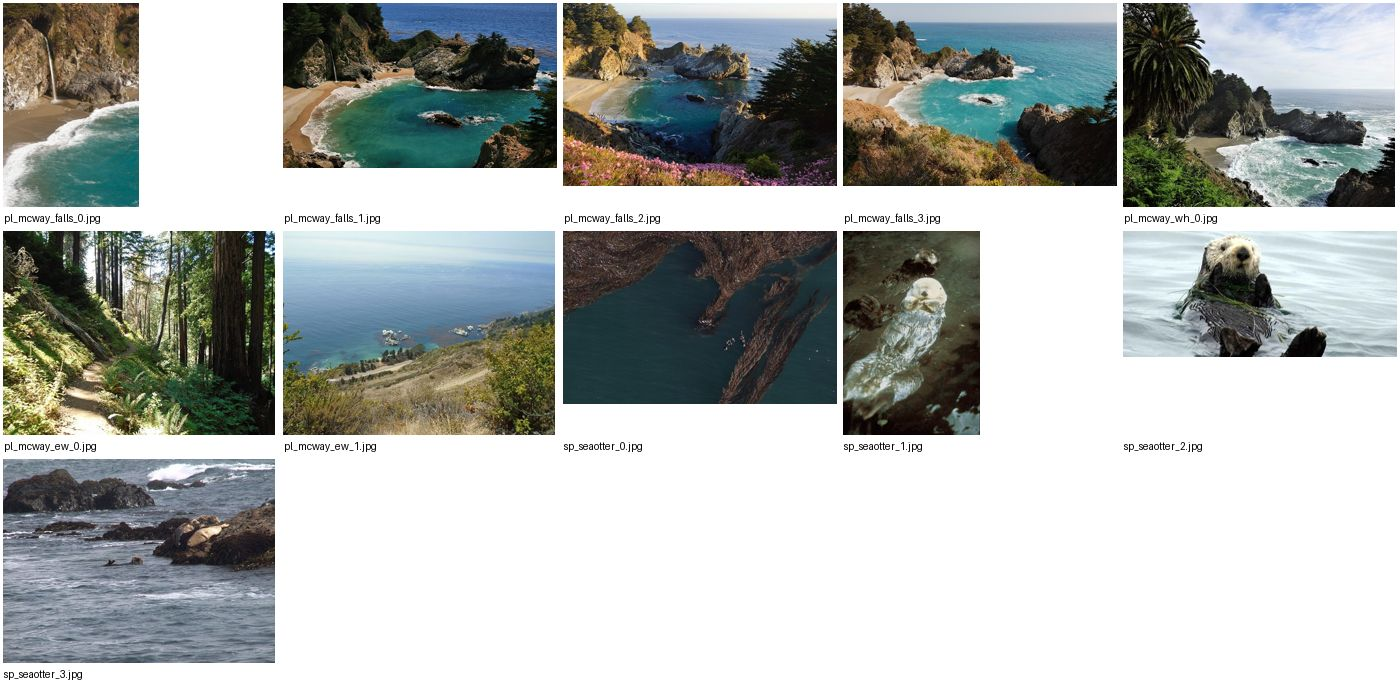
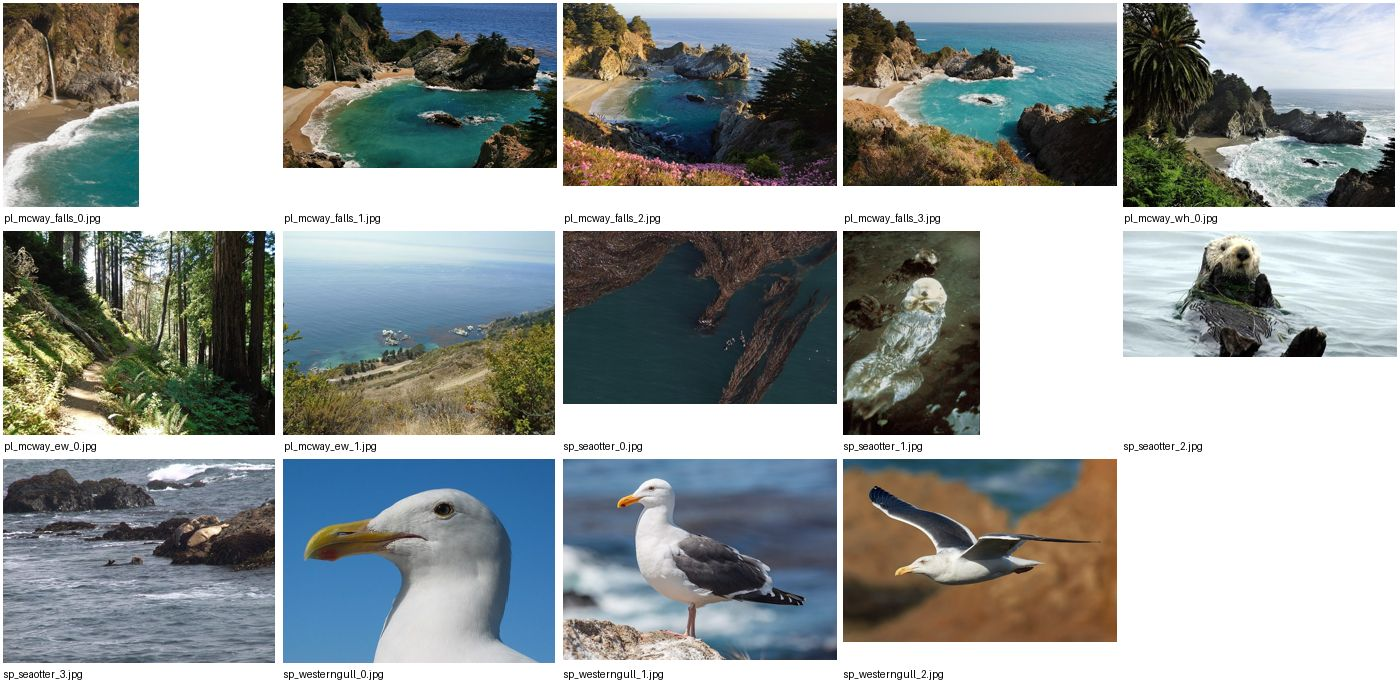
Review build: big-sur-mcway-falls

Changed region(s): [[0.1843, 0.6447, 0.7986, 1.0], [0.6143, 0.9825, 0.6757, 1.0]]

diff --git a/big-sur-mcway-falls/index.html b/big-sur-mcway-falls/index.html
@@ -260,20 +260,24 @@ const FLORA={"A":["fuchsia","douglasiris","monkey"],"B":["douglasiris","monkey",
 const WILD={
  deer:{name:"Black-tailed deer",color:"#B98A5E",sum:"The coastal form of the mule deer. Browses along the Ewoldsen Trail and the canyon edges early and late in the day."},
  squirrel:{name:"California ground squirrel",color:"#9A9A96",sum:"Common around the parking lot, picnic tables and overlook paths. Please don’t feed it."},
+ bobcat:{name:"Bobcat",color:"#C49A6C",sum:"Seen now and then along the Ewoldsen Trail, in the scrub and the edges of the redwood canyon, mostly early and late in the day."},
  turkey:{name:"Wild turkey",color:"#4A3A2E",sum:"Small flocks forage in the oak and grassland openings above McWay Canyon."},
  quail:{name:"California quail",color:"#7D8A9A",sum:"California’s state bird. Coveys run through the coastal scrub along the bluffs."},
- otter:{name:"Southern sea otter",color:"#5A4232",sum:"A threatened species. The park lies in the California Sea Otter State Game Refuge; look for otters floating on their backs in the kelp off McWay and Partington coves."},
- condor:{name:"California condor",color:"#1E1E1E",sum:"Big Sur is where condors were first set free again on the Central Coast. With 9-foot wings and numbered wing tags, they ride the updrafts along the cliffs and ridges."},
- steller:{name:"Steller’s jay",color:"#24406E",sum:"The dark-crested blue jay of the redwoods. Loud and bold around the picnic area and along McWay Creek."},
- vulture:{name:"Turkey vulture",color:"#2A2420",sum:"Teeters on tilted wings low over the bluffs and canyon slopes, often below the overlooks."},
+ otter:{name:"Southern sea otter",color:"#5A4232",sum:"Rare here: a threatened subspecies that lives only on the central California coast, and the park lies inside the California Sea Otter State Game Refuge. Look for otters floating on their backs in the kelp off McWay and Partington coves."},
+ condor:{name:"California condor",color:"#1E1E1E",sum:"Rare here: one of the rarest birds in North America, listed as endangered for the park; Big Sur condors are released and tracked by the Ventana Wildlife Society, a park partner. With 9-foot wings and numbered tags, they ride the updrafts along the cliffs and ridges."},
+ eagle:{name:"Bald eagle",color:"#3B2A1E",sum:"Listed among the park’s birds; watch for the white head and tail over the coast and ridges, especially in winter."},
  peregrine:{name:"Peregrine falcon",color:"#55606A",sum:"Nests on the sea cliffs of the park. Watch for a fast, sharp-winged falcon diving at seabirds along the coast."},
+ hawk:{name:"Red-tailed hawk",color:"#A8572F",sum:"The common big hawk of the Big Sur coast, circling over the bluffs and chaparral on rising air."},
+ vulture:{name:"Turkey vulture",color:"#2A2420",sum:"Teeters on tilted wings low over the bluffs and canyon slopes, often below the overlooks."},
+ steller:{name:"Steller’s jay",color:"#24406E",sum:"The dark-crested blue jay of the redwoods. Loud and bold around the picnic area and along McWay Creek."},
+ gull:{name:"Western gull",color:"#B9C2CB",sum:"The big, dark-backed gull of the Pacific coast; nests and rests on the rocks around McWay and Partington coves."},
  whale:{name:"Gray whale",color:"#5A646C",sum:"Gray whales pass close to this coast on their migration between Alaska and Baja, mostly winter and spring, sometimes near the mouth of McWay Cove. Look for the spout from the overlook."},
  sealion:{name:"California sea lion",color:"#7A5B43",sum:"California sea lions rest on the offshore rocks and swim past the coves, barking."},
  seal:{name:"Harbor seal",color:"#8A8378",sum:"Harbor seals haul out on rocks along this shore and bob up just beyond the surf."},
  pelican:{name:"Brown pelican",color:"#8C7E6E",sum:"Brown pelicans glide in lines just above the waves and dive headfirst for fish."}
 };
 
-const PHOTOS={"stop":{},"animal":{"deer":[{"f":"../photos/sp_deer_2.jpg","by":"LassenNPS","lic":"BY 2.0","src":"https://www.flickr.com/photos/61860846@N05/9401081133","t":"Pair of Mule Deer: Odocoileus hemionus californicus"}],"squirrel":[{"f":"../photos/sp_squirrel_1.jpg","by":"sonstroem","lic":"BY 2.0","src":"https://www.flickr.com/photos/96964826@N05/19792172568","t":"Western Gray Squirrel"}],"quail":[{"f":"../photos/sp_quail_2.jpg","by":"SidPix","lic":"BY 2.0","src":"https://www.flickr.com/photos/22357152@N02/6401999787","t":"California Quail"}]},"flower":{"fuchsia":[{"f":"../photos/sp_fuchsia_0.jpg","by":"John Rusk","lic":"BY 2.0","src":"https://www.flickr.com/photos/12303842@N00/36762222981","t":"J20170824-0061—Epilobium canum—RPBG—DxO"}],"monkey":[{"f":"../photos/sp_monkey_2.jpg","by":"Björn S...","lic":"BY-SA 2.0","src":"https://www.flickr.com/photos/40948266@N04/42902155992","t":"Sticky Monkey-Flower - Diplacus aurantiacus"}],"yucca":[{"f":"../photos/sp_yucca_0.jpg","by":"Jim Morefield","lic":"BY-SA 2.0","src":"https://www.flickr.com/photos/127605180@N04/16524048182","t":"chaparral yucca, Hesperoyucca whipplei"}]}};
+const PHOTOS={"stop":{"A3":[{"f":"../photos/pl_mcway_falls_0.jpg","by":"King of Hearts","lic":"CC BY-SA 3.0","src":"https://commons.wikimedia.org/wiki/File:McWay_Falls_Big_Sur_May_2011_001.jpg","t":"McWay Falls Big Sur May 2011 001"},{"f":"../photos/pl_mcway_falls_1.jpg","by":"Brocken Inaglory","lic":"CC BY-SA 3.0","src":"https://commons.wikimedia.org/wiki/File:McWay_cove_1.jpg","t":"McWay cove 1"},{"f":"../photos/pl_mcway_falls_2.jpg","by":"King of Hearts","lic":"CC BY-SA 4.0","src":"https://commons.wikimedia.org/wiki/File:McWay_Falls_Big_Sur_September_2012_001.jpg","t":"McWay Falls Big Sur September 2012 001"},{"f":"../photos/pl_mcway_falls_3.jpg","by":"King of Hearts","lic":"CC BY-SA 3.0","src":"https://commons.wikimedia.org/wiki/File:McWay_Falls_Big_Sur_May_2011_005.jpg","t":"McWay Falls Big Sur May 2011 005"}],"A4":[{"f":"../photos/pl_mcway_wh_0.jpg","by":"SharonWestvale","lic":"CC BY-SA 4.0","src":"https://commons.wikimedia.org/wiki/File:Julia_Pfeiffer_Burns_California_State_Park.jpg","t":"Julia Pfeiffer Burns California State Park"}],"C1":[{"f":"../photos/pl_mcway_ew_0.jpg","by":"Martin Stiburek","lic":"CC BY-SA 4.0","src":"https://commons.wikimedia.org/wiki/File:Forest_Ewoldsen_Trail,_Julia_Pfeiffer_Burns_State_Park.jpg","t":"Forest Ewoldsen Trail, Julia Pfeiffer Burns State Park"}],"C4":[{"f":"../photos/pl_mcway_ew_1.jpg","by":"Pimlico27","lic":"CC BY-SA 4.0","src":"https://commons.wikimedia.org/wiki/File:California_State_Route_1_from_Ewoldsen_Trail.jpg","t":"California State Route 1 from Ewoldsen Trail"}]},"animal":{"deer":[{"f":"../photos/sp_dp_btdeer_0.jpg","by":"Charles J. Sharp","lic":"CC BY-SA 4.0","src":"https://commons.wikimedia.org/wiki/File:Columbian_black-tailed_deer_(Odocoileus_hemionus_columbianus)_male_Mt_Rainier.jpg","t":"Columbian black-tailed deer (Odocoileus hemionus columbianus) male Mt Rainier"},{"f":"../photos/sp_dp_btdeer_2.jpg","by":"Frank Schulenburg","lic":"CC BY-SA 3.0","src":"https://commons.wikimedia.org/wiki/File:Odocoileus_hemionus_columbianus_(male_and_female),_Point_Reyes_National_Seashore.jpg","t":"Odocoileus hemionus columbianus (male and female), Point Reyes National Seashore"},{"f":"../photos/sp_dp_btdeer_3.jpg","by":"Charles J. Sharp","lic":"CC BY-SA 4.0","src":"https://commons.wikimedia.org/wiki/File:Columbian_black-tailed_deer_(Odocoileus_hemionus_columbianus)_male_Olympic.jpg","t":"Columbian black-tailed deer (Odocoileus hemionus columbianus) male Olympic"}],"bobcat":[{"f":"../photos/sp_bobcat_0.jpg","by":"Joshua Tree National Park","lic":"PDM 1.0","src":"https://www.flickr.com/photos/115357548@N08/14252467743","t":"Bobcat (Lynx rufus)"}],"squirrel":[{"f":"../photos/sp_calgsquirrel_3.jpg","by":"Joshua Tree National Park","lic":"PDM 1.0","src":"https://www.flickr.com/photos/115357548@N08/49902265071","t":"California ground squirrel (Otospermophilus beecheyi parvulus) near Split Rock Trail"},{"f":"../photos/sp_calgsquirrel_1.jpg","by":"Wade Tregaskis","lic":"BY-NC 2.0","src":"https://www.flickr.com/photos/7725552@N06/50214779367","t":"Juvenile California Ground Squirrel (Otospermophilus beecheyi)"}],"quail":[{"f":"../photos/sp_quail_2.jpg","by":"SidPix","lic":"BY 2.0","src":"https://www.flickr.com/photos/22357152@N02/6401999787","t":"California Quail"}],"hawk":[{"f":"../photos/sp_hawk_2.jpg","by":"mark6mauno","lic":"BY-SA 2.0","src":"https://www.flickr.com/photos/98147195@N00/6604970029","t":"Buteo jamaicensis (Red-tailed Hawk)"}],"otter":[{"f":"../photos/sp_seaotter_1.jpg","by":"Tuttle Stephen, U.S. Fish and Wildlife Service","lic":"Public domain","src":"https://commons.wikimedia.org/wiki/File:Southern_sea_otter_enhydra_lutris_nereis.jpg","t":"Southern sea otter enhydra lutris nereis"},{"f":"../photos/sp_seaotter_2.jpg","by":"U.S. Fish and Wildlife Service","lic":"Public domain","src":"https://commons.wikimedia.org/wiki/File:Southern_sea_otter_animal_enhydra_lutris_or_enhydra_lutris_nereis.jpg","t":"Southern sea otter animal enhydra lutris or enhydra lutris nereis"}],"turkey":[{"f":"../photos/sp_wg_turkey_0.jpg","by":"Judy Gallagher","lic":"BY 2.0","src":"https://www.flickr.com/photos/52450054@N04/24350524238","t":"Wild Turkey - Meleagris gallopavo, Occoquan Bay National Wildlife Refuge, Woodbridge, Virginia"},{"f":"../photos/sp_wg_turkey_2.jpg","by":"Mary Keim","lic":"BY-NC-SA 2.0","src":"https://www.flickr.com/photos/38514062@N03/23837720052","t":"Wild Turkey (Meleagris gallopavo)"}],"condor":[{"f":"../photos/sp_nar_condor_0.jpg","by":"thaths","lic":"BY-NC 2.0","src":"https://www.flickr.com/photos/34816987@N00/7181875384","t":"A tagged California Condor flying over the Pacific Ocean"},{"f":"../photos/sp_gccondor_1.jpg","by":"Grand Canyon NPS","lic":"BY 2.0","src":"https://www.flickr.com/photos/50693818@N08/5735690880","t":"Grand Canyon National Park: California Condor 87_3483"},{"f":"../photos/sp_gccondor_2.jpg","by":"Grand Canyon NPS","lic":"BY 2.0","src":"https://www.flickr.com/photos/50693818@N08/5735075527","t":"Grand Canyon National Park: California Condor D_0511"}],"steller":[{"f":"../photos/sp_stellersjay_0.jpg","by":"Aly3naa","lic":"BY 2.0","src":"https://www.flickr.com/photos/193745899@N04/52385817421","t":"A Stellers Jay giving me a look 😳"},{"f":"../photos/sp_stellersjay_1.jpg","by":"Carandoom","lic":"BY-ND 2.0","src":"https://www.flickr.com/photos/153004825@N03/42220477825","t":"Steller's jay (Cyanocitta stelleri)"},{"f":"../photos/sp_stellersjay_2.jpg","by":"Andrej Chudy","lic":"BY-NC-SA 2.0","src":"https://www.flickr.com/photos/76362620@N00/32603012346","t":"Steller's Jay"}],"vulture":[{"f":"../photos/sp_tvulture_0.jpg","by":"Charles J. Sharp","lic":"CC BY-SA 4.0","src":"https://commons.wikimedia.org/wiki/File:Turkey_vulture_(Cathartes_aura)_in_flight.JPG","t":"Turkey vulture (Cathartes aura) in flight"},{"f":"../photos/sp_tvulture_1.jpg","by":"Frank Schulenburg","lic":"CC BY-SA 4.0","src":"https://commons.wikimedia.org/wiki/File:Cathartes_aura_at_Tomales_Bay.jpg","t":"Cathartes aura at Tomales Bay"}],"peregrine":[{"f":"../photos/sp_peregrine_0.jpg","by":"Jon David Nelson","lic":"BY-NC-SA 2.0","src":"https://www.flickr.com/photos/65771669@N07/30098270026","t":"Peregrine Falcon"},{"f":"../photos/sp_peregrine_2.jpg","by":"FurLined","lic":"BY-SA 2.0","src":"https://www.flickr.com/photos/8752533@N04/3875330734","t":"Peregrine Falcon"}],"eagle":[{"f":"../photos/sp_baldeagle_0.jpg","by":"Martin Falbisoner","lic":"CC BY-SA 3.0","src":"https://commons.wikimedia.org/wiki/File:Bald_Eagle_Head_sq.jpg","t":"Bald Eagle Head sq"},{"f":"../photos/sp_baldeagle_3.jpg","by":"Lewis Hulbert","lic":"CC BY-SA 4.0","src":"https://commons.wikimedia.org/wiki/File:Bald_eagle_at_the_Hawk_Conservancy_Trust_2-2.jpg","t":"Bald eagle at the Hawk Conservancy Trust 2-2"}],"gull":[{"f":"../photos/sp_westerngull_1.jpg","by":"Diliff","lic":"CC BY-SA 3.0","src":"https://commons.wikimedia.org/wiki/File:Larus_occidentalis_(Western_Gull),_Point_Lobos,_CA,_US_-_May_2013.jpg","t":"Larus occidentalis (Western Gull), Point Lobos, CA, US - May 2013"},{"f":"../photos/sp_westerngull_2.jpg","by":"Frank Schulenburg","lic":"CC BY-SA 4.0","src":"https://commons.wikimedia.org/wiki/File:Larus_occidentalis_in_flight_(Bodega_Head).jpg","t":"Larus occidentalis in flight (Bodega Head)"}]},"flower":{"fuchsia":[{"f":"../photos/sp_fuchsia_0.jpg","by":"John Rusk","lic":"BY 2.0","src":"https://www.flickr.com/photos/12303842@N00/36762222981","t":"J20170824-0061—Epilobium canum—RPBG—DxO"}],"monkey":[{"f":"../photos/sp_monkey_2.jpg","by":"Björn S...","lic":"BY-SA 2.0","src":"https://www.flickr.com/photos/40948266@N04/42902155992","t":"Sticky Monkey-Flower - Diplacus aurantiacus"}],"yucca":[{"f":"../photos/sp_yucca_0.jpg","by":"Jim Morefield","lic":"BY-SA 2.0","src":"https://www.flickr.com/photos/127605180@N04/16524048182","t":"chaparral yucca, Hesperoyucca whipplei"}],"sorrel":[{"f":"../photos/sp_sorrel_0.jpg","by":"-Dagmar-","lic":"BY-NC-ND 2.0","src":"https://www.flickr.com/photos/53383848@N07/19102507490","t":"Oxalis oregana (Redwood Sorrel)"},{"f":"../photos/sp_sorrel_1.jpg","by":"brewbooks","lic":"BY-SA 2.0","src":"https://www.flickr.com/photos/93452909@N00/17347814181","t":"Oxalis oregana (redwood sorrel)"},{"f":"../photos/sp_sorrel_2.jpg","by":"sarahstierch","lic":"BY 2.0","src":"https://www.flickr.com/photos/7633518@N08/52620303366","t":"Oxalis oregana (Redwood Sorrel)"}],"wcolumbine":[{"f":"../photos/sp_wcolumbine_ak_0.jpg","by":"Jim Morefield","lic":"BY-SA 2.0","src":"https://www.flickr.com/photos/127605180@N04/15869788083","t":"western columbine, Aquilegia formosa var. formosa"},{"f":"../photos/sp_wcolumbine_ak_2.jpg","by":"MIKOFOX ⌘ Reject Fear, Go Outdoors, Live Healthy","lic":"BY-NC-SA 2.0","src":"https://www.flickr.com/photos/28648755@N07/37377267236","t":"Western Columbine [Aquilegia formosa]"},{"f":"../photos/sp_wcolumbine_ak_3.jpg","by":"MIKOFOX ⌘ Reject Fear, Go Outdoors, Live Healthy","lic":"BY-NC-SA 2.0","src":"https://www.flickr.com/photos/28648755@N07/37424274591","t":"Western Columbine [Aquilegia formosa]"}],"douglasiris":[{"f":"../photos/sp_douglasiris_0.jpg","by":"No machine-readable author provided. Curtis Clark assumed (based on copyright cl","lic":"CC BY-SA 2.5","src":"https://commons.wikimedia.org/wiki/File:Iris_douglasiana_flower_2003-03-17.jpg","t":"Iris douglasiana flower 2003-03-17"},{"f":"../photos/sp_douglasiris_2.jpg","by":"John Rusk from Berkeley, CA, United States of America","lic":"CC BY 2.0","src":"https://commons.wikimedia.org/wiki/File:G20080424-0471--Iris_douglasiana--RPBG-1_(8648684554).jpg","t":"G20080424-0471--Iris douglasiana--RPBG-1 (8648684554)"},{"f":"../photos/sp_douglasiris_3.jpg","by":"John Rusk from Berkeley, CA, United States of America","lic":"CC BY 2.0","src":"https://commons.wikimedia.org/wiki/File:J20170420-0159%E2%80%94Iris_douglasiana%E2%80%94RPBG_(34152417132).jpg","t":"J20170420-0159—Iris douglasiana—RPBG (34152417132)"}],"ceanothus":[{"f":"../photos/sp_ceanothus_0.jpg","by":"ww_whist","lic":"BY-NC-SA 2.0","src":"https://www.flickr.com/photos/29245046@N03/16961133405","t":"Wild Lilac (ceanothus)"},{"f":"../photos/sp_ceanothus_1.jpg","by":"selkovjr","lic":"BY 2.0","src":"https://www.flickr.com/photos/14192663@N07/4869288563","t":"A blue-flowered shrub in Ayr"}]}};
 /* ================= terrain ================= */
 const X0=-10800,X1=5100,N0=-3600,N1=10000,STEP=80;
 const NX=Math.round((X1-X0)/STEP)+1,NN=Math.round((N1-N0)/STEP)+1;
@@ -906,7 +910,7 @@ const B={
 };
 return B;})();
 Object.assign(BUILD,GENTLE);
-const BIRDC={pelican:["#8C7E6E","#EDE6DA","#E8C66A"],condor:["#1E1E1E", null, "#E89A7A"],steller:["#24406E", null, "#1A1A1A"],vulture:["#2A2420", null, "#C8322C"],peregrine:["#55606A", "#ECE8E0", "#2A2A2A"],hawk:["#A8572F","#F1E2CC",null],jay:["#3D78C4","#D9DEE3",null],raven:["#262626",null,null],woodpecker:["#1F1F1F","#F2F2EE","#C8322C"]};
+const BIRDC={pelican:["#8C7E6E","#EDE6DA","#E8C66A"],condor:["#1E1E1E", null, "#E89A7A"],eagle:["#3B2A1E", null, "#FFFFFF"],peregrine:["#55606A", "#ECE8E0", "#2A2A2A"],vulture:["#2A2420", null, "#C8322C"],steller:["#24406E", null, "#1A1A1A"],gull:["#B9C2CB", "#FFFFFF", "#FFFFFF"],hawk:["#A8572F","#F1E2CC",null],jay:["#3D78C4","#D9DEE3",null],raven:["#262626",null,null],woodpecker:["#1F1F1F","#F2F2EE","#C8322C"]};
 const MSCALE={dolphin:2.1,whale:2.2,shark:1.6,sealion:1.6,seal:1.5,pelican:2.4};
 const SCALE={turkey:1.7,otter:1.7,bear:1.7,deer:1.4,bobcat:1.45,coyote:1.35,lion:1.4,raccoon:1.3,squirrel:1.8,quail:1.8,snake:2.0};
 const animalGroup=new THREE.Group();world.add(animalGroup);
@@ -917,6 +921,7 @@ const ANIMALS=[
  {k:"squirrel",at:[-280,-3],hop:true},
  {k:"squirrel",at:[-7436,6318],hop:true},
  {k:"squirrel",at:[800,4060],hop:true},
+ {k:"bobcat",path:[1307,1967,1897,1314],per:32,ph:0.2},
  {k:"turkey",at:[-773,4416],flock:3},
  {k:"quail",at:[-7364,5846],flock:3},
  {k:"otter",at:[-745,-145]},
@@ -975,7 +980,7 @@ function marineTick(tt){marine.forEach(a=>{const y0=G(a.x,a.n).y;
 
 // birds
 const birds=[];
-[["condor",-44,32,-30,8],["steller",44,26,26,7],["vulture",-36,35,40,7],["peregrine",34,30,-44,6],["condor",0,38,-50,10],["steller",-10,28,50,6],["vulture",50,34,-10,9]].forEach((b,i)=>{
+[["condor",-44,32,-30,8],["eagle",44,26,26,7],["peregrine",-36,35,40,7],["hawk",34,30,-44,6],["vulture",0,38,-50,10],["steller",-10,28,50,6],["gull",50,34,-10,9]].forEach((b,i)=>{
   const [c,belly,cap]=BIRDC[b[0]];const o=BUILD.bird(c,belly,cap);o.scale.setScalar(2.4);scene.add(o);birds.push({k:b[0],obj:o,cx:b[1],cy:b[2],cz:b[3],r:b[4],sp:(0.22+i*0.035)*(i%2?1:-1),ph:i*1.3,fl:i*0.7});});
 // clouds with varied shapes
 const clouds=[];(function(){const cg=new THREE.IcosahedronGeometry(1,2),hm=new THREE.MeshBasicMaterial({color:PAL.slabLine,side:THREE.BackSide});
@@ -1005,7 +1010,7 @@ function fitFor(v,az,el){
   const fwd=dirOf(az,el).negate(),right=new THREE.Vector3().crossVectors(fwd,new THREE.Vector3(0,1,0)).normalize(),up=new THREE.Vector3().crossVectors(right,fwd).normalize();
   const pts=viewPoints(v);let mu=1e9,Mu=-1e9,mv=1e9,Mv=-1e9;pts.forEach(p=>{const u=p.dot(right),vv=p.dot(up);mu=Math.min(mu,u);Mu=Math.max(Mu,u);mv=Math.min(mv,vv);Mv=Math.max(Mv,vv);});
   const pad=v==="all"?1:1.25,du=(Mu-mu)*pad,dv=(Mv-mv)*pad,aw=Math.max(80,W-m.l-m.r),ah=Math.max(80,Hh-m.t-m.b);
-  let zoom=Math.min(aw*VIEW/(du*Hh),ah*VIEW/(dv*Hh));if(v!=="all")zoom=Math.min(zoom,fitFor("all",VIEWAZ.all,0.58).zoom*({"A": 9.0, "B": 7.0, "C": 3.0}[v]||2.4));
+  let zoom=Math.min(aw*VIEW/(du*Hh),ah*VIEW/(dv*Hh));if(v!=="all")zoom=Math.min(zoom,fitFor("all",VIEWAZ.all,0.58).zoom*({"A": 5.0, "B": 4.5, "C": 3.0}[v]||2.4));
   const wpp=VIEW/(Hh*zoom),target=new THREE.Vector3().copy(right).multiplyScalar((mu+Mu)/2).addScaledVector(up,(mv+Mv)/2).addScaledVector(right,-(m.l-m.r)/2*wpp).addScaledVector(up,(m.t-m.b)/2*wpp);
   return {zoom,target};}
 function fitGoal(){if(!stage.clientWidth||!stage.clientHeight)return;const f=fitFor(view,goal.az,goal.el);goal.zoom=f.zoom;goal.target.copy(f.target);}

diff --git a/_review/mcway/mcway_sheet.py b/_review/mcway/mcway_sheet.py
@@ -1,0 +1,261 @@
+from lib import *
+from mk_sheet import build
+import sys, json, math, os
+import numpy as np
+from matplotlib.path import Path as MPath
+
+os.chdir('/home/claude/parks')
+# origin: McWay Falls / Waterfall Overlook trailhead (Hikespeak 36.1587, -121.67054)
+p = Park('mcway', 36.1587, -121.67054)
+
+
+def fix_sea(p):
+    # Ocean cells in the terrain tiles sit at about +1.2 m, so the engine would draw them as land. Rebuild the sea
+    # from the OSM coastline (land on the left of the way): sea -1 m, land at least 1.5 m. Closed rings stay land.
+    W = [w for w in p.W if w['k'] == 'coastline']
+    open_ = [[p.xy(c) for c in w['p']] for w in W if w['p'][0] != w['p'][-1]]
+    rings = [[p.xy(c) for c in w['p']] for w in W if w['p'][0] == w['p'][-1]]
+    first = [c for c in open_ if not any(math.dist(c[0], d[-1]) < 1 for d in open_)][0]
+    chain = list(first); used = [first]
+    while True:
+        nxt = [c for c in open_ if c not in used and math.dist(c[0], chain[-1]) < 1]
+        if not nxt: break
+        chain += nxt[0][1:]; used.append(nxt[0])
+    print('coast chain', len(used), 'of', len(open_), [round(v) for v in chain[0]], [round(v) for v in chain[-1]])
+    a, b = chain[0], chain[-1]
+    sea = MPath(chain + [(b[0], -60000), (-60000, -60000), (-60000, 60000), (a[0], 60000)])
+    z = p.meta['z']; nn = 2 ** z; H, Wd = p.M.shape
+    jj, ii = np.mgrid[0:H, 0:Wd]
+    lon = (p.meta['tx0'] + (ii + 0.5) / 256) / nn * 360 - 180
+    lat = np.degrees(np.arctan(np.sinh(np.pi * (1 - 2 * (p.meta['ty0'] + (jj + 0.5) / 256) / nn))))
+    X = (lon - p.lon0) * p.K; N = (lat - p.lat0) * 364000
+    XY = np.column_stack([X.ravel(), N.ravel()])
+    s = sea.contains_points(XY).reshape(H, Wd)
+    for r in rings:
+        s &= ~MPath(r).contains_points(XY).reshape(H, Wd)
+    M = p.M.copy(); M[s] = -1.0; M[~s] = np.maximum(M[~s], 1.5)
+    p.M = M
+
+
+fix_sea(p)
+
+LOT = (443, 319)        # day-use parking at McWay Canyon (OSM path/steps end by the lot)
+PELTON = (335, 212)     # Pelton Wheel (OSM historic node)
+TUN = (-18, 19)         # pedestrian tunnel under Highway 1 (OSM path segment under the road)
+FALLS = (-567, -314)    # McWay Falls lip: OSM McWay Creek ends here (Wikipedia 36.15781,-121.67214 = -470,-325)
+FV = (-388, 233)        # cliff-edge path facing the falls
+WH = (-738, 426)        # end of the Overlook Trail: Waterfall House site (OSM viewpoint -813,444)
+SADDLE = (-806, -349)   # Saddle Rock (OSM peak, 15 m)
+TH_B = (-6823, 6695)    # Partington Cove gate at the Highway 1 bend (OSM track start; Hikespeak 36.1770,-121.6937)
+KIOSK = (-7472, 6327)   # bottom of the fire road: kiosk and junctions (OSM)
+PTUN = (-7548, 6165)    # Partington tunnel (OSM path between bridge and cove)
+PCOVE = (-7575, 5784)   # Partington Cove landing / point (OSM path end)
+PBEACH = (-7813, 6135)  # boulder beach at the mouth of Partington Creek (OSM path end)
+PICNIC = (776, 723)     # picnic site (OSM)
+CF = (1584, 1560)       # Canyon Falls (end of OSM Canyon Trail)
+CJ = (1247, 1134)       # Canyon Trail junction
+J1 = (2099, 1635)
+LJ = (1393, 3432)       # Ewoldsen loop junction (OSM way ends)
+RV = (-40, 2504)        # OSM viewpoint on the west half of the loop
+TOP = (-167, 4856)
+BENCH = (-277, 4304)    # Overlook Trail end, OSM "Bench" viewpoint
+
+R = {}
+R['A'] = route_xy(p, LOT, WH, LOT)
+R['B'] = route_xy(p, TH_B, PCOVE, KIOSK, PBEACH, TH_B)
+R['C'] = route_xy(p, LOT, CF, CJ, LJ, RV, TOP, BENCH, TOP, (1100, 4950), LJ, J1, LOT)
+for k in R: Park.smooth_E(R[k], 9); p.describe(R[k], k)
+
+ST = snap_stops(p, R, {
+    'LOT': (*LOT, 'AC'),
+    'PELTON': (*PELTON, 'A'), 'TUN': (*TUN, 'A'), 'FV': (*FV, 'A'), 'WH': (*WH, 'A'),
+    'THB': (*TH_B, 'B'), 'KIOSK': (*KIOSK, 'B'), 'PTUN': (*PTUN, 'B'), 'PCOVE': (*PCOVE, 'B'), 'PBEACH': (*PBEACH, 'B'),
+    'PICNIC': (*PICNIC, 'C'), 'CF': (*CF, 'C'), 'LJ': (*LJ, 'C'), 'RV': (*RV, 'C'), 'BENCH': (*BENCH, 'C'),
+})
+TILE = (-10500, 4800, -3300, 9700)
+GRID = (-10800, 5100, -3600, 10000)
+if 'plot' in sys.argv:
+    from plot import plot
+    plot(p, TILE, 'mcway/routes.png', routes=R, stops=ST, title='mcway', grid=1000)
+    sys.exit()
+
+STEP = 80
+b64, NX, NN = p.dem_b64(*GRID, STEP=STEP)
+T_ = p.grid[int((TILE[2] - GRID[2]) / STEP):int((TILE[3] - GRID[2]) / STEP), int((TILE[0] - GRID[0]) / STEP):int((TILE[1] - GRID[0]) / STEP)]
+RIDGE = int(round(float(np.percentile(T_[T_ > 10], 75)), -1))
+print('grid', NX, NN, NX * NN, p.grid.min(), p.grid.max(), 'p75', RIDGE)
+for k, q in dict(FALLS=FALLS, WH=WH, BENCH=BENCH, PCOVE=PCOVE, SADDLE=SADDLE).items(): print(k, round(p.elev(*q)))
+
+S = lambda i: ST[i]
+def st(key, trs, name, desc): return dict(id=key, key=key, trails=list(trs), x=S(key)[0], n=S(key)[1], name=name, desc=desc)
+stops = [
+ st('LOT', 'AC', 'McWay Canyon parking', 'The park’s day-use lot in McWay Canyon, just east of Highway 1, with restrooms, drinking water and picnic tables. Both the Waterfall Overlook and the Ewoldsen trails start here.'),
+ st('PELTON', 'A', 'Pelton Wheel', 'In 1932 Hans Ewoldsen, foreman of the Saddle Rock Ranch, set a Pelton wheel in McWay Creek. Its 32-volt generator made the first electric power on the Big Sur coast, for three houses, a blacksmith shop and later a funicular.'),
+ st('TUN', 'A', 'Tunnel under Highway 1', 'The path follows McWay Creek down and passes through a short pedestrian tunnel under the highway to the ocean side.'),
+ st('FV', 'A', 'McWay Falls view', 'McWay Falls drops about 80 feet from the granite cliff onto the beach of McWay Cove; at high tide it falls straight into the sea. Before a huge 1983 landslide north of the park sent sand into the cove, the falls always met the ocean. The beach, the falls area and Saddle Rock are closed: stay behind the fence.'),
+ st('WH', 'A', 'Waterfall House site', 'Lathrop and Hélène Brown, who owned the Saddle Rock Ranch, built a two-story house on this point in 1940, reached by a funicular. Hélène gave the land to the state in 1961, asking that the park honor Julia Pfeiffer Burns, a Big Sur pioneer; the house was taken down in 1965 and the overlook replaced it.'),
+ st('THB', 'B', 'Partington Cove trailhead', 'A gate on the ocean side of Highway 1 at a sharp bend in Partington Canyon, about 2 miles north of the park entrance. Park on the wide shoulder; no fee and no trail sign. The Tanbark Trail starts across the road.'),
+ st('KIOSK', 'B', 'Kiosk and creek junction', 'The fire road drops about 200 feet in 0.3 mile to an information kiosk near Partington Creek. A short spur heads upstream along the creek; the cove trail turns left over a wooden footbridge, and a path goes straight to the beach.'),
+ st('PTUN', 'B', 'Partington tunnel', 'A tunnel through the rock, lined with redwood planks, cut in the late 1800s for John Partington. Tanoak bark from the canyon, valued for tanning leather, was hauled through it to ships in the cove.'),
+ st('PCOVE', 'B', 'Partington Cove', 'A fenced ledge with a bench above the small, kelp-filled cove, once a landing where tanbark and redwood were loaded for Santa Cruz and San Francisco. Swimming and climbing on the rocks are unsafe: the surf is strong.'),
+ st('PBEACH', 'B', 'Partington Creek beach', 'A short path through brush and blackberry ends at a small boulder-and-sand beach where Partington Creek meets the sea.'),
+ st('PICNIC', 'C', 'Redwood picnic area', 'Picnic tables and grills under coast redwoods on McWay Creek, where the Ewoldsen Trail begins. Old- and second-growth redwoods here grow within 100 yards of the shore.'),
+ st('CF', 'C', 'Canyon Falls', 'A short side trail leads to Canyon Falls, a moss-lined cascade about 30 feet high, heard before it is seen.'),
+ st('LJ', 'C', 'Loop junction', 'The trail splits into its loop above McWay Creek. In recent years the east half has often been closed for repairs, and hikers went out and back on the west half.'),
+ st('RV', 'C', 'Coast view', 'Out of the canyon the redwoods give way to chaparral and live oak, and the first ocean views open up over McWay Rocks and the coast.'),
+ st('BENCH', 'C', 'Ewoldsen overlook', 'A short spur to a small meadow with a wooden bench, about 1,600 feet above the sea, the high point of the hike, looking down the Big Sur coast.'),
+]
+stops, order = renumber(p, R, stops)
+KEY2ID = {s['key']: s['id'] for s in stops}
+print(order, KEY2ID)
+trails = [
+ dict(id='A', name='Waterfall Overlook Trail', short='McWay Falls', official=0.6, unit='round trip', route='Out and back', time='20–30 min', level='Easy', color='--tA',
+      desc='A short, nearly level path from the parking lot down McWay Creek, through a tunnel under Highway 1, and out along the cliff above McWay Cove to the overlook on the old Waterfall House site. The view of the 80-foot falls is from behind the fence; there is no beach access.', anchors=p.anchors(R['A'])),
+ dict(id='B', name='Partington Cove Trail', short='Partington Cove', official=1.25, unit='round trip', route='Out and back', time='45 min–1 hr', level='Moderate', color='--tB',
+      desc='Two miles north of the main entrance, a steep fire road drops into Partington Canyon. At the bottom, cross the creek on a footbridge and walk through a plank-lined tunnel to a ledge over Partington Cove, a tanbark landing in the 1800s; a side path leads to the beach at the creek mouth. The climb back up is the hard part.', anchors=p.anchors(R['B'])),
+ dict(id='C', name='Ewoldsen Trail', short='Ewoldsen', official=4.8, unit='loop', route='Lollipop loop', time='2.5–3.5 hr', level='Strenuous', color='--tC',
+      desc='Named for Hans Ewoldsen, the ranch foreman. From the picnic area the trail follows McWay Creek through redwoods, with a side trip to Canyon Falls, then climbs out of the canyon into chaparral and loops over the ridge, with a spur to an ocean overlook at about 1,600 feet. Closed for now, with the other trails east of Highway 1.', anchors=p.anchors(R['C'])),
+]
+
+pa = place_along
+A_ = lambda k, f, s=1, o=300: pa(p, R[k], [f], s, o)[0]
+def path(k, f, s=1, o=350, d=0.03): return js(A_(k, f, s, o) + A_(k, f + d, s, o))
+
+
+def sea_pt(x, n, dx, dn, extra=150):
+    # walk from (x, n) in direction (dx, dn) to the first sea cell, then a bit further out
+    for i in range(1, 200):
+        q = (x + dx * 20 * i, n + dn * 20 * i)
+        if p.elev(*q) < 0: return [round(q[0] + dx * extra), round(q[1] + dn * extra)]
+    return [x, n]
+
+
+OT1 = sea_pt(-500, 100, -0.7, -0.7, 250)
+OT2 = sea_pt(-7500, 5900, -0.8, -0.6, 200)
+print('otters', OT1, OT2)
+an = []
+an += [f'{{k:"deer",path:{path("C",.18,-1,420)},per:28}}', f'{{k:"deer",path:{path("C",.72,1,450)},per:30,ph:0.4}}']
+an += [f'{{k:"squirrel",at:{js(A_("A",.32,1,160))},hop:true}}', f'{{k:"squirrel",at:{js(A_("B",.18,1,200))},hop:true}}', f'{{k:"squirrel",at:{js(A_("C",.45,-1,260))},hop:true}}']
+an += [f'{{k:"bobcat",path:{path("C",.86,-1,380)},per:32,ph:0.2}}']
+an += [f'{{k:"turkey",at:{js(A_("C",.55,-1,380))},flock:3}}']
+an += [f'{{k:"quail",at:{js(A_("B",.42,-1,220))},flock:3}}']
+an += [f'{{k:"otter",at:{js(OT1)}}}', f'{{k:"otter",at:{js(OT2)},ph:0.5}}']
+animals_js = '[\n ' + ',\n '.join(an) + '\n]'
+
+species_extra = {
+ 'sorrel': 'sorrel:{name:"Redwood sorrel",latin:"Oxalis oregana",color:"#F2C9D6",shape:"cup",bloom:[3,4,5,6,7,8],sum:"Clover-like leaves that carpet the redwood floor along McWay Creek and fold down in direct sun, with small pink-white flowers.",rule:(d,e,g,s)=>d<500&&s<0.2&&e>30}',
+ 'wcolumbine': 'wcolumbine:{name:"Western columbine",latin:"Aquilegia formosa",color:"#D9452F",shape:"tube",bloom:[4,5,6,7],sum:"Nodding red-and-yellow flowers on moist, shady banks along the creeks; hummingbirds feed on them.",rule:(d,e,g,s)=>d<400&&e>40}',
+ 'douglasiris': 'douglasiris:{name:"Douglas iris",latin:"Iris douglasiana",color:"#7B6FD0",shape:"cup",bloom:[3,4,5],sum:"A coastal iris with lavender to purple flowers veined in white, in clumps on grassy bluffs and open slopes in spring.",rule:(d,e,g,s)=>e>20&&e<1200&&g<0.7&&d>150}',
+ 'ceanothus': 'ceanothus:{name:"Blueblossom",latin:"Ceanothus thyrsiflorus",color:"#8C86D9",shape:"dome",bloom:[3,4,5],sum:"A coastal wild lilac covered in fragrant clusters of pale blue flowers in spring, on the chaparral slopes the Ewoldsen Trail climbs through.",rule:(d,e,g,s)=>s>0.0&&d>250&&e>200}',
+}
+species = ['fuchsia', 'monkey', 'yucca'] + list(species_extra)
+
+lm = f'''  gate({LOT[0] + 30},{LOT[1] + 40},0.5);gate({TH_B[0] - 40},{TH_B[1] - 30},-0.3);
+  // McWay Falls: drops west from the cliff lip onto the beach of McWay Cove (OSM creek mouth), drawn tall so it reads
+  {{const top=G({FALLS[0]},{FALLS[1]}),F=G({FALLS[0] - 60},{FALLS[1]});const h=Math.max(top.y-F.y,0.6)+3.2;
+  const wf=new THREE.Group();wf.position.copy(F);wf.rotation.y=-Math.PI/2;world.add(wf);
+  const fallTex=stripeTex("#E4F6F6","#FFFFFF",64,128,22,9,14);fallTex.repeat.set(1,1.6);
+  const fallMat=new THREE.MeshBasicMaterial({{map:fallTex,side:THREE.DoubleSide}});
+  const pl=new THREE.Mesh(new THREE.PlaneGeometry(0.9,h),fallMat);pl.position.set(0,h/2,-0.55);wf.add(pl);
+  part(wf,ico,PAL.rockDeep,-1.35,h*0.45,-1.0,0.9,h*0.55,1.0);part(wf,ico,PAL.rock,1.35,h*0.4,-1.0,0.9,h*0.5,1.0);part(wf,ico,PAL.rockDeep,0,h+0.1,-1.2,1.3,0.6,1.0);
+  part(wf,new THREE.CylinderGeometry(1,1,0.06,18),"#BFE6EA",0,0.05,0.3,1.3,1,1.0,1.04,false);
+  const rings=[];for(let i=0;i<3;i++){{const rg=new THREE.Mesh(new THREE.RingGeometry(0.5,0.62,24),new THREE.MeshBasicMaterial({{color:"#FFFFFF",transparent:true,side:THREE.DoubleSide}}));rg.rotation.x=-Math.PI/2;rg.position.set(0,0.1,0.1);wf.add(rg);rings.push(rg);}}
+  const mist=[];for(let i=0;i<7;i++){{const m=new THREE.Mesh(new THREE.SphereGeometry(0.2,8,6),new THREE.MeshBasicMaterial({{color:"#FFFFFF",transparent:true}}));wf.add(m);mist.push({{m,ph:i/7,x:(i%3-1)*0.4}});}}
+  // Canyon Falls: smaller cascade in the side canyon (end of the OSM Canyon Trail), facing down-canyon (southwest)
+  const cf=new THREE.Group();cf.position.copy(G({CF[0] + 20},{CF[1] + 20}));cf.rotation.y=Math.atan2(-0.7,0.7);world.add(cf);
+  const pl2=new THREE.Mesh(new THREE.PlaneGeometry(0.55,2.4),fallMat);pl2.position.set(0,1.2,-0.4);cf.add(pl2);
+  part(cf,ico,PAL.rockDeep,-0.8,1.1,-0.6,0.6,1.3,0.6);part(cf,ico,PAL.rock,0.8,1.0,-0.6,0.6,1.2,0.6);part(cf,ico,"#5E7A4A",0,2.5,-0.7,0.9,0.4,0.6);
+  anim.water={{fallTex,rings,mist}};}}
+  // Saddle Rock: the rock knob at the mouth of McWay Cove (OSM peak), exaggerated
+  {{const q=G({SADDLE[0]},{SADDLE[1]});const g=new THREE.Group();g.position.copy(q);g.rotation.y=0.4;world.add(g);
+   part(g,ico,"#8A8274",0,0.9,0,2.0,1.6,1.4);part(g,ico,"#7A7266",1.3,0.7,0.2,1.1,1.2,1.0);part(g,ico,"#958C7E",-1.2,0.6,-0.2,1.0,1.0,0.9);part(g,ico,"#6E675C",0.3,2.0,0.1,0.9,0.7,0.8);}}
+  // pedestrian tunnel under Highway 1: concrete portals on both sides of the road
+  {{const g=new THREE.Group();g.position.copy(G({TUN[0]},{TUN[1]}));g.rotation.y=0.15;world.add(g);g.scale.setScalar(1.4);
+   [-1.1,1.1].forEach(dx=>{{part(g,box,"#CFC8BA",dx,0.7,-0.75,0.35,1.4,0.4,1.06);part(g,box,"#CFC8BA",dx,0.7,0.75,0.35,1.4,0.4,1.06);part(g,box,"#BDB5A6",dx,1.55,0,0.4,0.35,1.95,1.06);part(g,box,"#2A2622",dx,0.65,0,0.08,1.2,1.1,0);}});
+   part(g,box,"#7A746A",0,1.78,0,2.6,0.12,2.4,1.04);}}
+  // Pelton wheel house on McWay Creek (OSM node)
+  {{const g=new THREE.Group();g.position.copy(G({PELTON[0]},{PELTON[1]}));g.rotation.y=0.6;world.add(g);g.scale.setScalar(1.3);
+   part(g,box,"#8C6845",0,0.55,0,1.4,1.1,1.0,1.05);const r=part(g,roof,"#6E5A48",0,1.35,0,1.0,0.6,1.05,1.06);rot(r,0,Math.PI/2,0);
+   const w=part(g,new THREE.TorusGeometry(0.55,0.09,6,16),"#5C5650",0.95,0.6,0,1,1,1,1.05);rot(w,0,Math.PI/2,0);part(g,cyl,"#5C5650",0.95,0.6,0,0.05,0.5,0.05,0);}}
+  // Waterfall House site: stone terrace of the 1940 house, now the overlook, with a bench
+  {{const q=G({WH[0] - 40},{WH[1] + 10});const g=new THREE.Group();g.position.copy(q);g.rotation.y=0.55;world.add(g);g.scale.setScalar(1.3);
+   part(g,box,"#B9AE9A",0,0.25,0,2.6,0.5,1.8,1.05);part(g,box,"#A39782",0,0.75,-0.85,2.6,0.5,0.15,1.05);part(g,box,"#A39782",-1.25,0.75,0,0.15,0.5,1.8,1.05);
+   part(g,box,"#9C7653",0.4,0.72,0.3,1.0,0.08,0.32,1.06);part(g,box,"#9C7653",0.4,0.95,0.15,1.0,0.35,0.06,1.06);}}
+  // Partington tunnel: a rock knob with a plank-lined opening, trail runs north-south through it
+  {{const q=G({PTUN[0]},{PTUN[1]});const g=new THREE.Group();g.position.copy(q);g.rotation.y=0.25;world.add(g);g.scale.setScalar(1.3);
+   part(g,ico,"#8A8274",-1.1,0.9,0,1.2,1.3,1.6);part(g,ico,"#7E776B",1.1,0.9,0,1.2,1.3,1.6);part(g,ico,"#958C7E",0,1.9,0,1.6,0.8,1.6);
+   part(g,box,"#9C7653",0,0.65,0,1.0,1.3,2.2,1.05);part(g,box,"#2A2622",0,0.6,0,0.75,1.1,2.25,0);}}
+  // Partington Cove: fenced ledge with a bench
+  bench({PCOVE[0] + 10},{PCOVE[1] + 20},0.4);
+  [[-60,40],[-20,70],[20,95]].forEach(([dx,dn])=>{{const q=G({PCOVE[0]}+dx,{PCOVE[1]}+dn);part(world,box,"#8A6A4A",q.x,q.y+0.35,q.z,0.07,0.7,0.07,0);part(world,box,"#9C7653",q.x,q.y+0.6,q.z,0.9,0.05,0.05,0).rotation.y=0.6;}});
+  // Ewoldsen overlook bench
+  bench({BENCH[0]},{BENCH[1]},2.6);
+'''
+
+canyons = []
+def ids_of(nm): return [w['id'] for w in p.W if w.get('n') == nm and w['k'] == 'stream']
+for nm, minor in (('McWay Creek', False), ('Partington Creek', False)):
+    for i, wid in enumerate(ids_of(nm)):
+        c = p.creek([wid], GRID, minor=minor)
+        if c: canyons.append(dict(id=f"{nm.split()[0].lower()}{i}", **c))
+for i, wid in enumerate(['72968451', '73165134', '73180823']):
+    c = p.creek([wid], GRID, minor=True)
+    if c: canyons.append(dict(id=f"trib{i}", **c))
+print('creeks', len(canyons))
+
+TREE_RULE = '''if(mk<0.25||e<14){type=null;}
+    else if(cd<260){type=tr()<.75?"conifer":"syc";p=0.3;}
+    else if(g>1.1)type=null;
+    else if(south<-0.1){type=tr()<.55?"oak":"shrub";p=0.07+cl*.1;}
+    else{type="shrub";p=0.035;}'''
+
+PH = json.load(open('mcway/photos_cfg.json')) if os.path.exists('mcway/photos_cfg.json') else {}
+stop_photos = {KEY2ID[k]: v for k, v in PH.get('stop', {}).items() if k in KEY2ID}
+cfg = dict(
+    title='McWay Falls', aria='McWay Falls, Partington Cove and the Ewoldsen Trail in Julia Pfeiffer Burns State Park, Big Sur', h1='McWay Falls',
+    canyons=canyons, trails=trails, stops=stops, order=order,
+    species=species, species_extra=species_extra,
+    flora={'A': ['fuchsia', 'douglasiris', 'monkey'], 'B': ['douglasiris', 'monkey', 'fuchsia', 'wcolumbine'], 'C': ['sorrel', 'wcolumbine', 'ceanothus', 'yucca', 'monkey']},
+    wild=['deer', 'squirrel', 'bobcat', 'turkey', 'quail', 'otter', 'condor', 'eagle', 'peregrine', 'hawk', 'vulture', 'steller', 'gull'],
+    wild_sum={
+     'deer': ('Black-tailed deer', 'The coastal form of the mule deer. Browses along the Ewoldsen Trail and the canyon edges early and late in the day.'),
+     'squirrel': ('California ground squirrel', 'Common around the parking lot, picnic tables and overlook paths. Please don’t feed it.'),
+     'turkey': ('Wild turkey', 'Small flocks forage in the oak and grassland openings above McWay Canyon.'),
+     'quail': ('California quail', 'California’s state bird. Coveys run through the coastal scrub along the bluffs.'),
+     'otter': ('Southern sea otter', 'Rare here: a threatened subspecies that lives only on the central California coast, and the park lies inside the California Sea Otter State Game Refuge. Look for otters floating on their backs in the kelp off McWay and Partington coves.'),
+     'condor': ('California condor', 'Rare here: one of the rarest birds in North America, listed as endangered for the park; Big Sur condors are released and tracked by the Ventana Wildlife Society, a park partner. With 9-foot wings and numbered tags, they ride the updrafts along the cliffs and ridges.'),
+     'bobcat': ('Bobcat', 'Seen now and then along the Ewoldsen Trail, in the scrub and the edges of the redwood canyon, mostly early and late in the day.'),
+     'eagle': ('Bald eagle', 'Listed among the park’s birds; watch for the white head and tail over the coast and ridges, especially in winter.'),
+     'hawk': ('Red-tailed hawk', 'The common big hawk of the Big Sur coast, circling over the bluffs and chaparral on rising air.'),
+     'gull': ('Western gull', 'The big, dark-backed gull of the Pacific coast; nests and rests on the rocks around McWay and Partington coves.'),
+     'steller': ('Steller’s jay', 'The dark-crested blue jay of the redwoods. Loud and bold around the picnic area and along McWay Creek.'),
+     'vulture': ('Turkey vulture', 'Teeters on tilted wings low over the bluffs and canyon slopes, often below the overlooks.'),
+     'peregrine': ('Peregrine falcon', 'Nests on the sea cliffs of the park. Watch for a fast, sharp-winged falcon diving at seabirds along the coast.'),
+    },
+    grid=GRID, step=STEP, dem_b64=b64, tile=TILE, ve=1.5, ridge_ft=RIDGE,
+    tree_rule=TREE_RULE, ocean=True, rock_all_aspects=True,
+    landmarks=lm, animals_js=animals_js,
+    overview=dict(h2='An 80-foot waterfall on the Big Sur coast',
+                  p='Julia Pfeiffer Burns State Park is on Highway 1, 37 miles south of Carmel, where redwood canyons run down to granite cliffs. Its best-known sight, McWay Falls, drops 80 feet onto a cove beach. A is the short Waterfall Overlook Trail to the falls view, B is Partington Cove, two miles north, down a canyon and through a tunnel to an old tanbark landing, and C is the Ewoldsen Trail, a redwood-to-chaparral loop climbing to an ocean overlook. <b>Closed as of November 18, 2026:</b> State Parks lists the park closed because Highway 1 is closed from Nepenthe to Ragged Point (to be reassessed November 19), and the trails east of the highway, including Ewoldsen, remain closed after the 2026 Timber Fire. Pick a trail to focus the model; click anything on it for a quick note.',
+                  numbers='The McWay Canyon parking lot is shared by A and C, so it carries a plain number. Every other stop belongs to one trail and carries its letter: B3 is the third stop on Trail B.',
+                  wild_h='Wildlife at Julia Pfeiffer Burns',
+                  note='Julia Pfeiffer Burns State Park, Highway 1, Big Sur, 37 miles south of Carmel and 12 miles south of Pfeiffer Big Sur State Park. Open 8 am to sunset when the highway is open; day use $10 per vehicle. No dogs on trails. The beach, Saddle Rock and the McWay Falls area beyond the fences are closed, and violators can be cited and arrested. Partington Cove has no lot or fee: park on the highway shoulder at the bend 2 miles north. Status (November 18, 2026): closed while Highway 1 is closed from Nepenthe to Ragged Point; backcountry trails east of Highway 1 closed until further notice. Check State Parks and Caltrans QuickMap before driving. Terrain from USGS elevation data, stylized; not for navigation.'),
+    links={'A': [('Julia Pfeiffer Burns State Park · CA State Parks', 'https://www.parks.ca.gov/?page_id=578'), ('McWay Falls · Wikipedia', 'https://en.wikipedia.org/wiki/McWay_Falls'), ('Overlook Trail to McWay Falls · Hikespeak', 'https://www.hikespeak.com/trails/mcway-falls-big-sur/')],
+           'B': [('Partington Cove · Modern Hiker', 'https://modernhiker.com/hike/partington-cove/'), ('Partington Cove Trail · Hikespeak', 'https://www.hikespeak.com/trails/partington-cove-big-sur/')],
+           'C': [('Ewoldsen Loop · Hiking Project', 'https://hikingproject.com/trail/7003425/ewoldsen-loop'), ('Monterey District park status · CA State Parks', 'https://www.parks.ca.gov/?page_id=21284')]},
+    extra_js='TRAILS.forEach(T=>{const g={A:50,B:275,C:1430}[T.id];if(g)T.gain=g;});\n// out-and-back: report the outbound mile for a stop\nmileOf=function(T,x,n){let b=null;T.pts.forEach(p=>{const d=Math.hypot(p.x-x,p.n-n);if(!b||d<b.d)b={d,m:p.m,e:p.e};});if(!b||b.d>=260)return null;const f=T.pts.find(p=>Math.hypot(p.x-x,p.n-n)<b.d+60);return {d:b.d,m:f.m,e:f.e};};',
+    viewaz={'all': -0.75, 'A': -0.75, 'B': -0.9, 'C': -0.6},
+    zoomcap={'A': 5.0, 'B': 4.5, 'C': 3.0},
+    stop_photos=stop_photos, flower_photos=PH.get('flower', {}), animal_photos=PH.get('animal', {}),
+)
+json.dump({k: {'mi': R[k]['mi'], 'gain': R[k]['gain'], 'lo': R[k]['lo'], 'hi': R[k]['hi']} for k in R}, open('mcway/stats.json', 'w'))
+OUT = '/home/claude/site/out/big-sur-mcway-falls/index.html'
+os.makedirs(os.path.dirname(OUT), exist_ok=True)
+print(build(cfg, OUT))
+from marine import inject
+inject(OUT, ['whale', 'sealion', 'seal', 'pelican'], {
+    'whale': 'Gray whales pass close to this coast on their migration between Alaska and Baja, mostly winter and spring, sometimes near the mouth of McWay Cove. Look for the spout from the overlook.',
+    'sealion': 'California sea lions rest on the offshore rocks and swim past the coves, barking.',
+    'seal': 'Harbor seals haul out on rocks along this shore and bob up just beyond the surf.',
+    'pelican': 'Brown pelicans glide in lines just above the waves and dive headfirst for fish.'},
+    names={'whale': 'Gray whale', 'sealion': 'California sea lion', 'seal': 'Harbor seal'})
